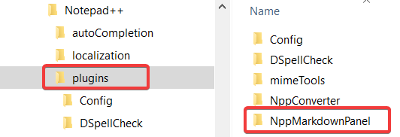
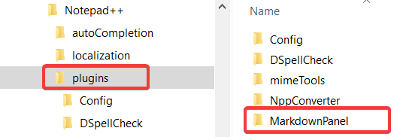
Update README.md and README images

Changed region(s): [[0.66, 0.8467, 0.93, 0.9343]]

diff --git a/README.md b/README.md
@@ -1,17 +1,28 @@
-# NppMarkdownPanel
-Plugin to preview Markdown files in Notepad++
+# Markdown Panel
+Plugin to preview Markdown, HTML and other files in Notepad++
 
 - lightweight plugin to preview markdown within Notepad++
-- displaying rendered markdown html with embedded IE11
-- can save rendered html to a file
+- displaying rendered markdown in HTML with embedded IE11
+- can save rendered HTML to a file
+
+### Original Version
+
+The original version can be found [here](https://github.com/mohzy83/NppMarkdownPanel/releases)
+
 
 ### Current Version
 
-My ([VinsWorldcom](https://github.com/VinsWorldcom/NppMarkdownPanel)) changes to [UrsineRaven's repo](https://github.com/UrsineRaven/NppMarkdownPanel) can be found [here](https://github.com/VinsWorldcom/NppMarkdownPanel/releases)
+I forked [UrsineRaven's repo](https://github.com/UrsineRaven/NppMarkdownPanel) 
+because it had some desirable updates and the original did not respond to 
+issues or pull requests in a timely fashion.
+
+My ([VinsWorldcom](https://github.com/VinsWorldcom/NppMarkdownPanel)) changes to can be found [here](https://github.com/VinsWorldcom/NppMarkdownPanel/releases)
 
 The plugin renders Markdown as HTML and provides a viewer.  The plugin can also 
 render HTML documents.  Additionally, 10 filters can be created manually in the 
-configuration file to render documents to HTML for viewing.  For example:
+configuration file to render documents to HTML for viewing.
+
+For example:
 
 ```
 [Filter0]
@@ -24,16 +35,6 @@ will render Perl POD to HTML and display in the viewer panel.  There are some
 limitations with filters.  The rendered views do not synchronize scrolling no 
 matter what the plugin menu setting is and they do not update "live" with typing, 
 only update after document save.
-
-<!--
-
-My ([UrsineRaven](https://github.com/UrsineRaven/NppMarkdownPanel)) changes to [mohzy83's repo](https://github.com/mohzy83/NppMarkdownPanel) can be found in the [version history](#version-history) below.
-The current version with my modifications (0.5.0.1) can be found [here](https://github.com/UrsineRaven/NppMarkdownPanel/releases)
-
-#### Mohzy83's current version:
-The current version is **0.5.0** it can be found [here](https://github.com/mohzy83/NppMarkdownPanel/releases)
-
--->
 
 ### Used libs and icons
 
@@ -53,13 +54,9 @@ Using the **Markdown icon** by dcurtis  - [https://github.com/dcurtis/markdown-m
 
 ## Installation
 
-### Installation over Notepad++ 
-
-The plugin can be installed over the integrated Notepad++ "Plugin Admin..".
-
 ### Manual Installation
 
-Create the folder "NppMarkdownPanel" in your Notepad++ plugin folder (e.g. "C:\Program Files\Notepad++\plugins") and extract the appropriate zip (x86 or x64) to it.
+Create the folder "MarkdownPanel" in your Notepad++ plugin folder (e.g. "C:\Program Files\Notepad++\plugins") and extract the appropriate zip (x86 or x64) to it.
 
 It should look like this:
 
@@ -75,7 +72,7 @@ Thats all you need to do ;)
 
 ### Settings
 
-To open the settings for this plugin: Plugins -> NppMarkdownPanel -> Edit Settings
+To open the settings for this plugin: Plugins -> Markdown Panel -> Settings
 
 ![open-settings](help/open-settings.png)
 
